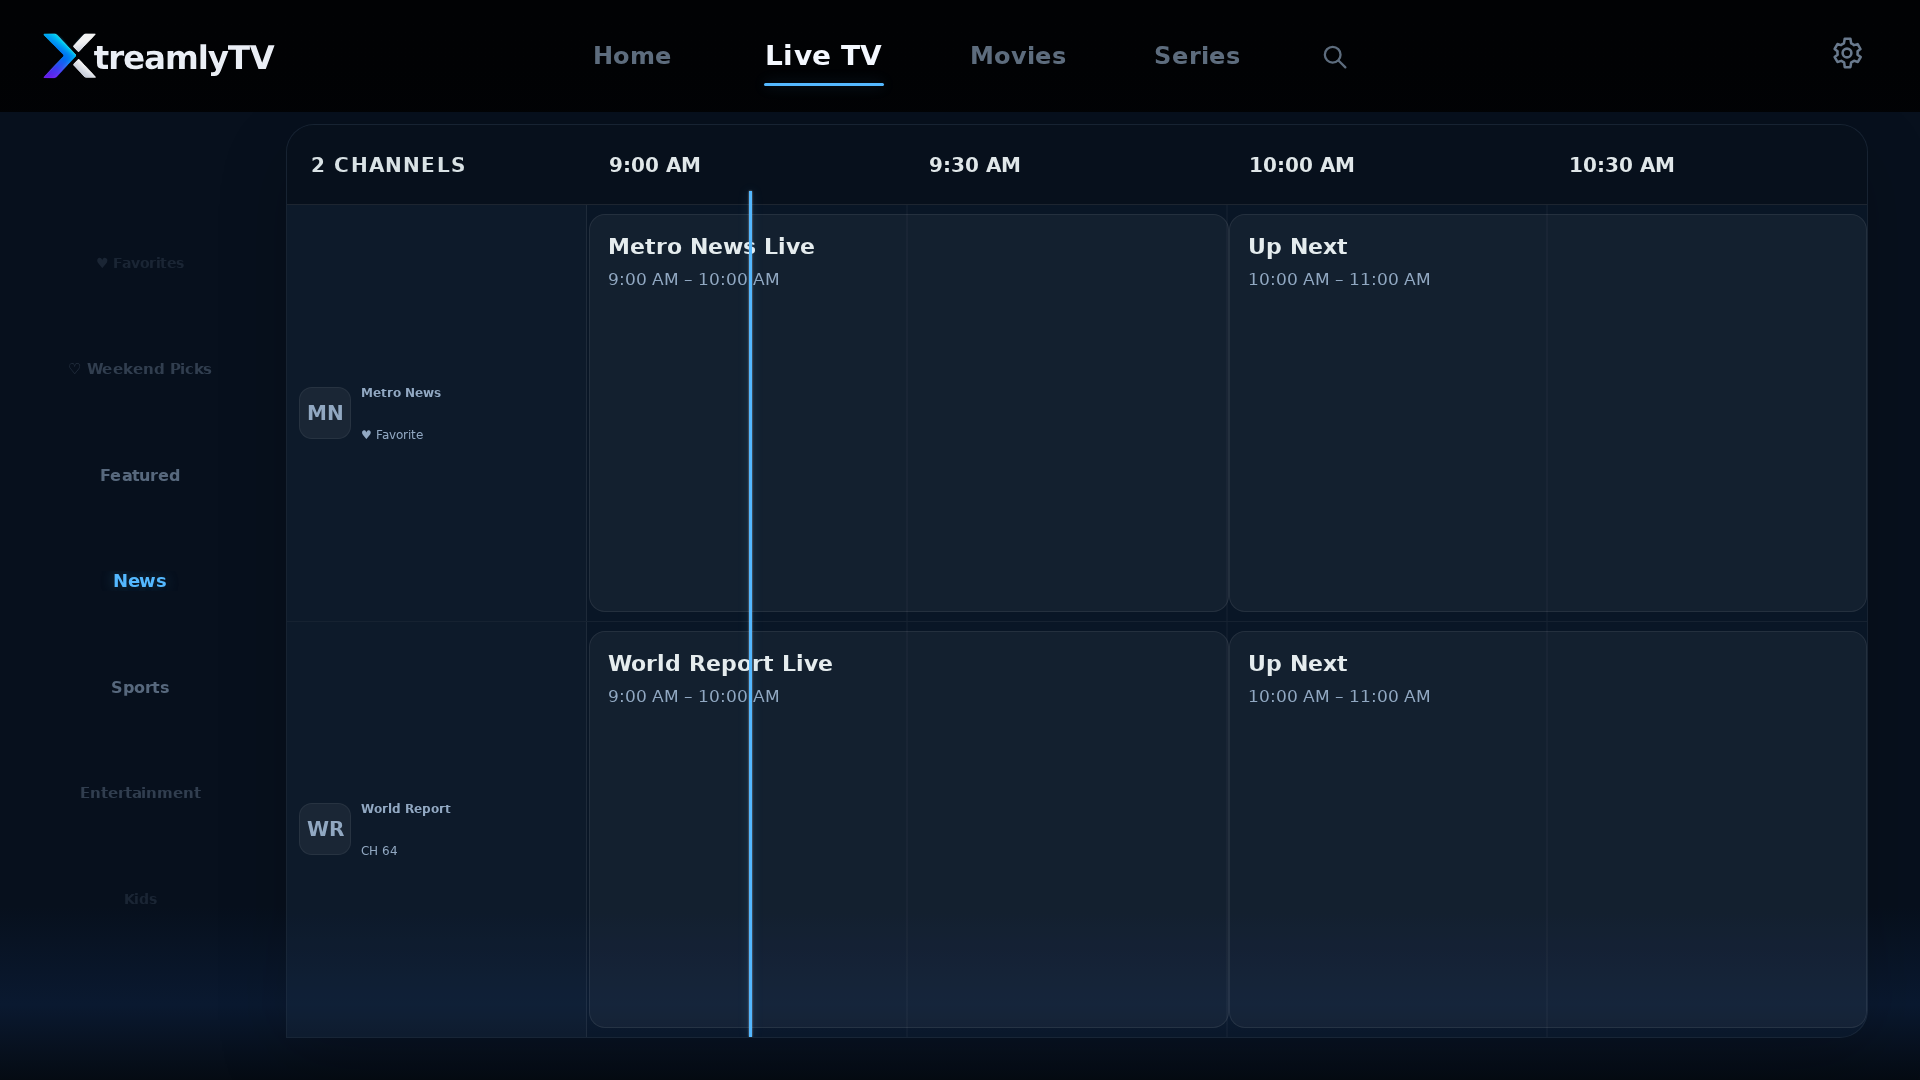
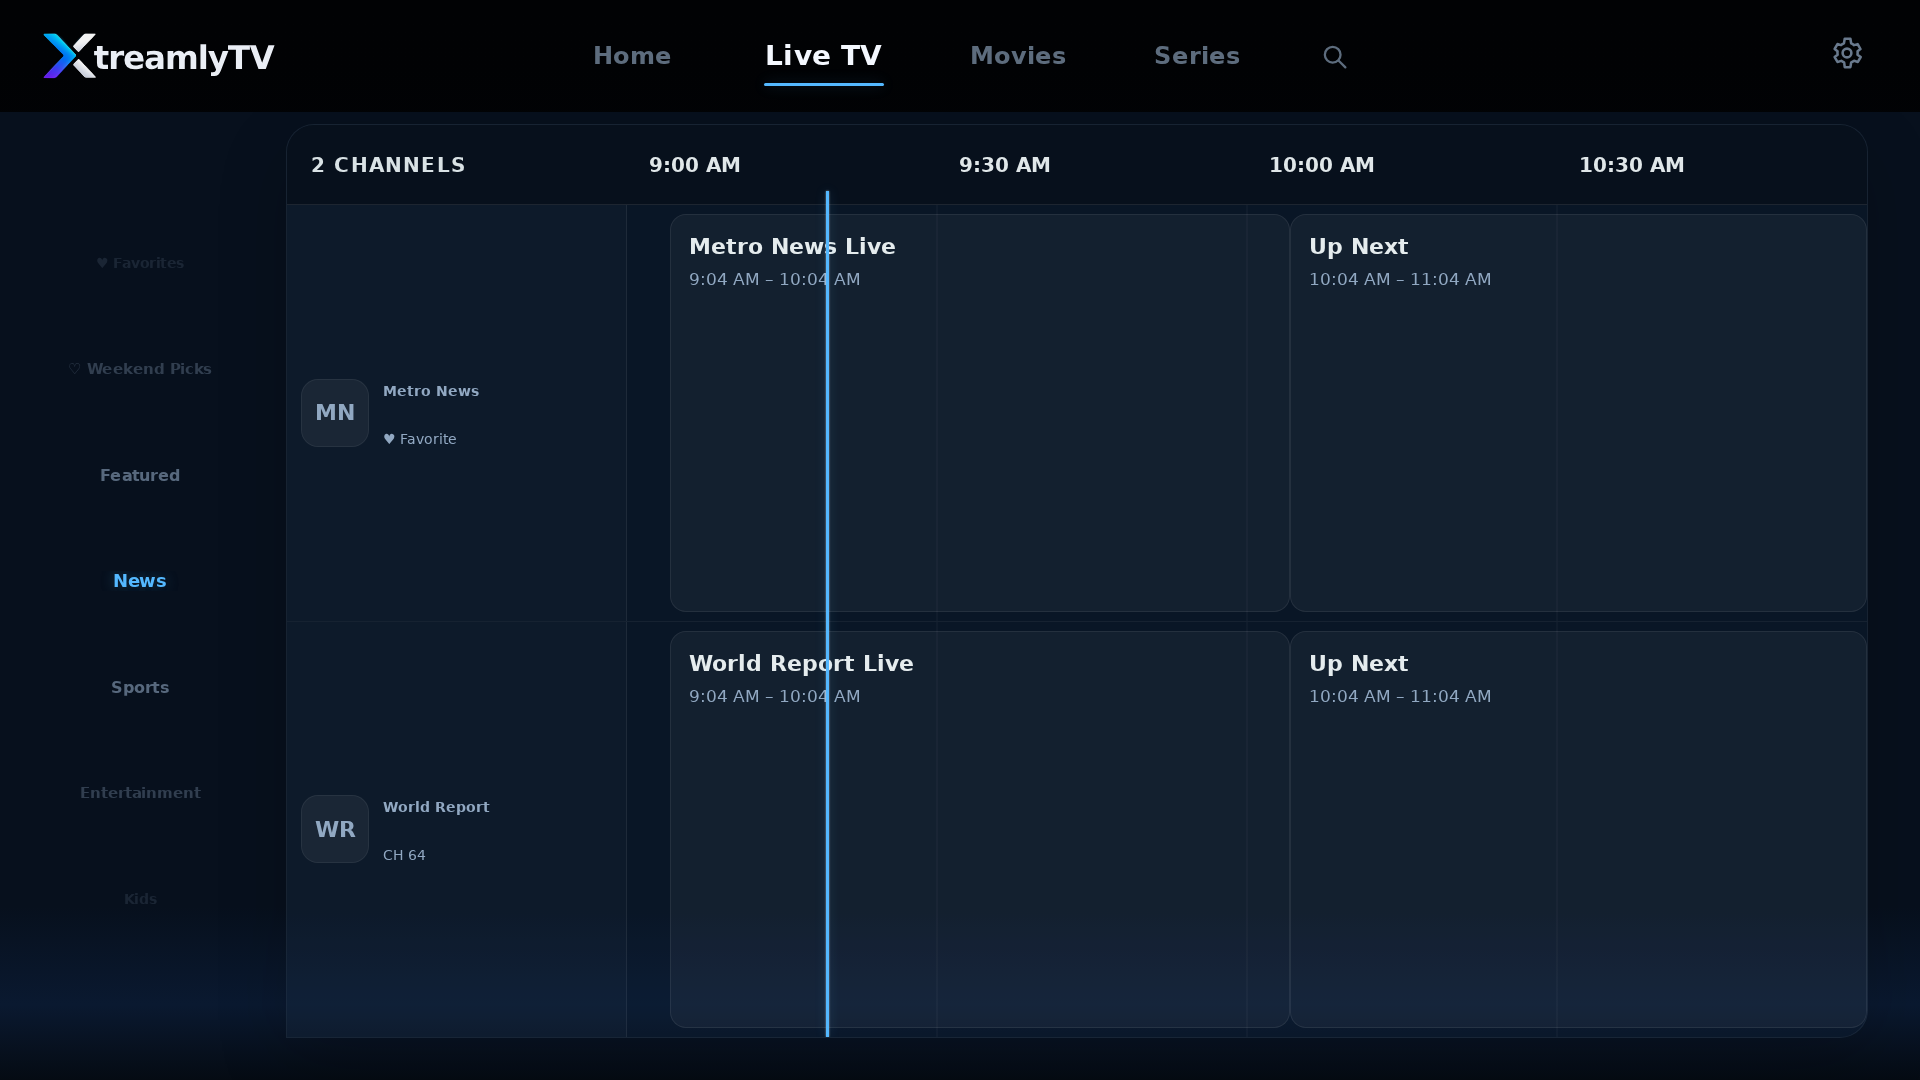
fix(webos): enlarge EPG channel details

diff --git a/apps/webos/app/css/v0.7-ui.css b/apps/webos/app/css/v0.7-ui.css
@@ -6849,32 +6849,35 @@
 /* Give provider channel names room without changing the category wheel. */
 .v07-guide-header,
 .v07-guide-row {
-  grid-template-columns:300px minmax(0,1fr) !important;
+  grid-template-columns:340px minmax(0,1fr) !important;
 }
 .v07-station {
-  padding:0 12px !important;
+  padding:0 14px !important;
 }
 .v07-station-logo {
-  flex-basis:52px !important;
-  width:52px !important;
-  height:52px !important;
-  border-radius:13px !important;
+  flex-basis:68px !important;
+  width:68px !important;
+  height:68px !important;
+  border-radius:17px !important;
 }
 .v07-station-logo img {
-  width:44px !important;
-  height:44px !important;
+  width:58px !important;
+  height:58px !important;
+}
+.v07-station-logo span {
+  font-size:22px !important;
 }
 .v07-station-copy {
-  margin-left:10px !important;
+  margin-left:14px !important;
   overflow:hidden;
 }
 .v07-station-copy strong {
   position:relative;
   display:block !important;
-  height:42px;
-  max-height:42px;
-  font-size:17px !important;
-  line-height:21px !important;
+  height:48px;
+  max-height:48px;
+  font-size:20px !important;
+  line-height:24px !important;
   white-space:normal !important;
   overflow:hidden;
   text-overflow:clip;
@@ -6884,9 +6887,9 @@
   will-change:transform;
 }
 .v07-station-copy span {
-  margin-top:2px !important;
-  font-size:12px !important;
-  line-height:14px !important;
+  margin-top:4px !important;
+  font-size:14px !important;
+  line-height:16px !important;
 }
 .v07-station-copy strong.is-overflowing {
   animation:none;

diff --git a/apps/webos/tests/v07_release_smoke.py b/apps/webos/tests/v07_release_smoke.py
@@ -41,6 +41,28 @@ def main() -> None:
         page.wait_for_selector("[data-v07-live-index]")
         assert page.locator("[data-v07-live-index]").count() <= 5
 
+        # Channel names keep a two-line viewport and marquee only when focused.
+        marquee = page.evaluate("""async () => {
+          const button = document.querySelector('[data-v07-live-index]');
+          const label = button.querySelector('.v07-station-copy strong');
+          label.querySelector('span').textContent =
+            'Metro News International Regional Network Extended Channel Name ' +
+            'Metro News International Regional Network Extended Channel Name';
+          button.blur();
+          button.focus();
+          await new Promise(resolve => setTimeout(resolve, 100));
+          const style = getComputedStyle(label);
+          return {
+            height: label.clientHeight,
+            lineHeight: parseFloat(style.lineHeight),
+            overflowing: label.classList.contains('is-overflowing'),
+            animation: getComputedStyle(label.querySelector('span')).animationName
+          };
+        }""")
+        assert abs(marquee["height"] - marquee["lineHeight"] * 2) <= 1
+        assert marquee["overflowing"] is True
+        assert marquee["animation"] == "v07-channel-name-marquee"
+
         page.evaluate("XtreamlyTVApp.activeCategory.movies='102'; XtreamlyTVApp.renderShell('movies')")
         page.wait_for_selector("[data-v07-media-index]")
         assert page.locator("[data-v07-media-index]").count() <= 6
